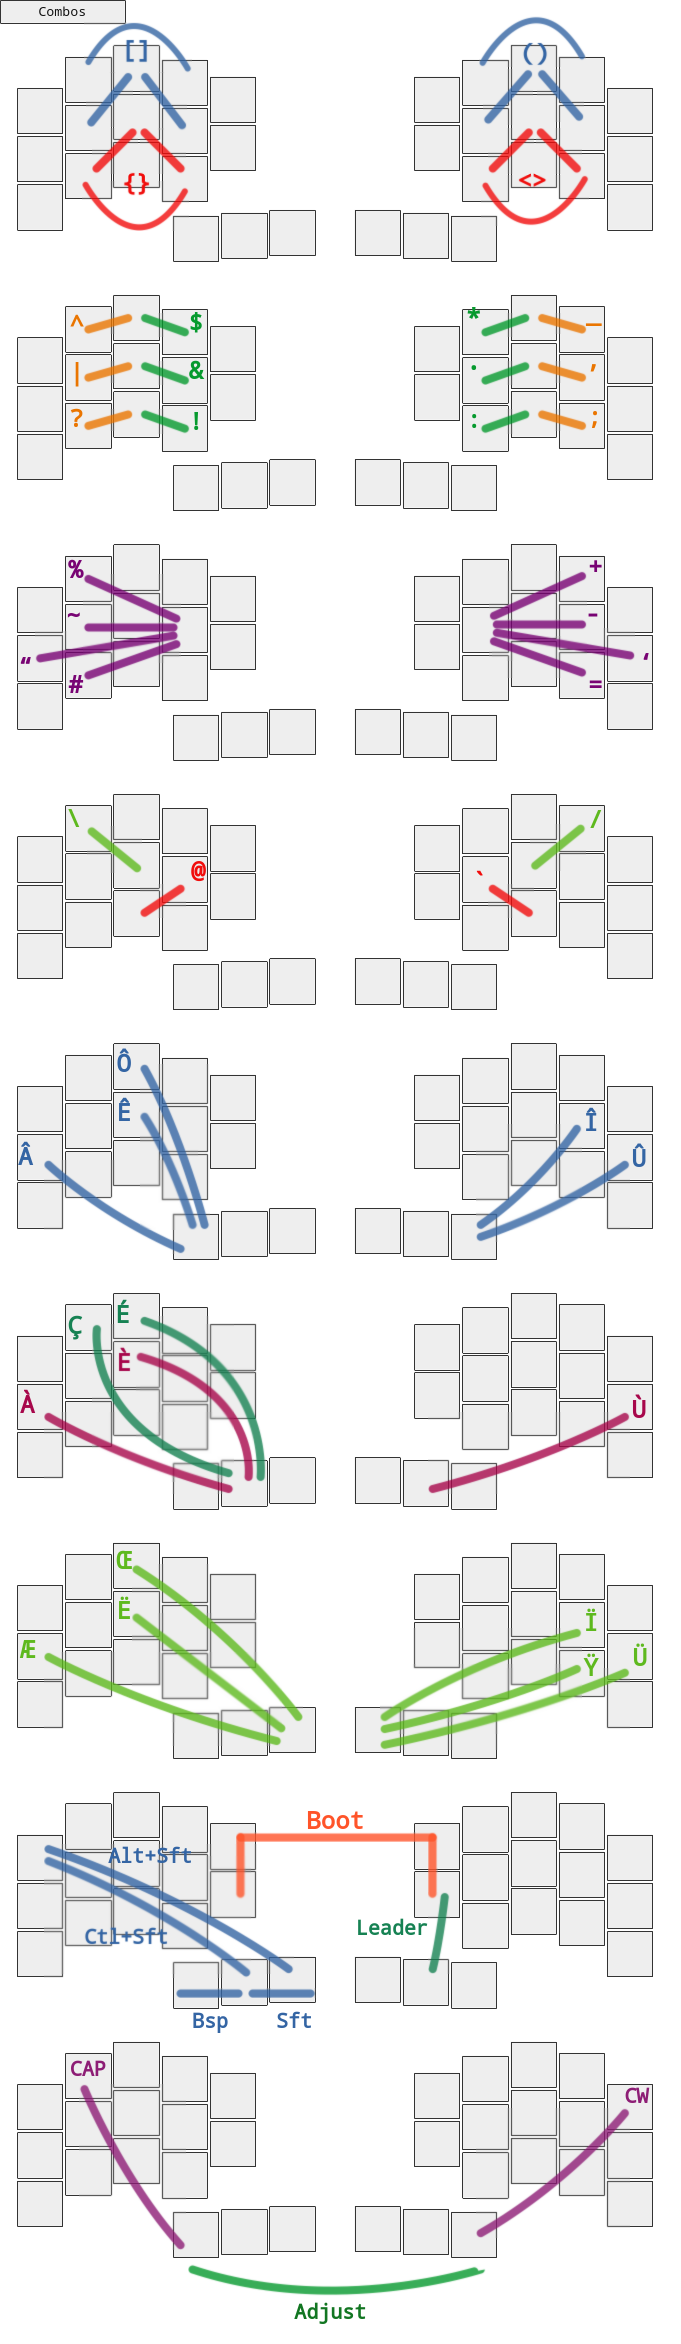
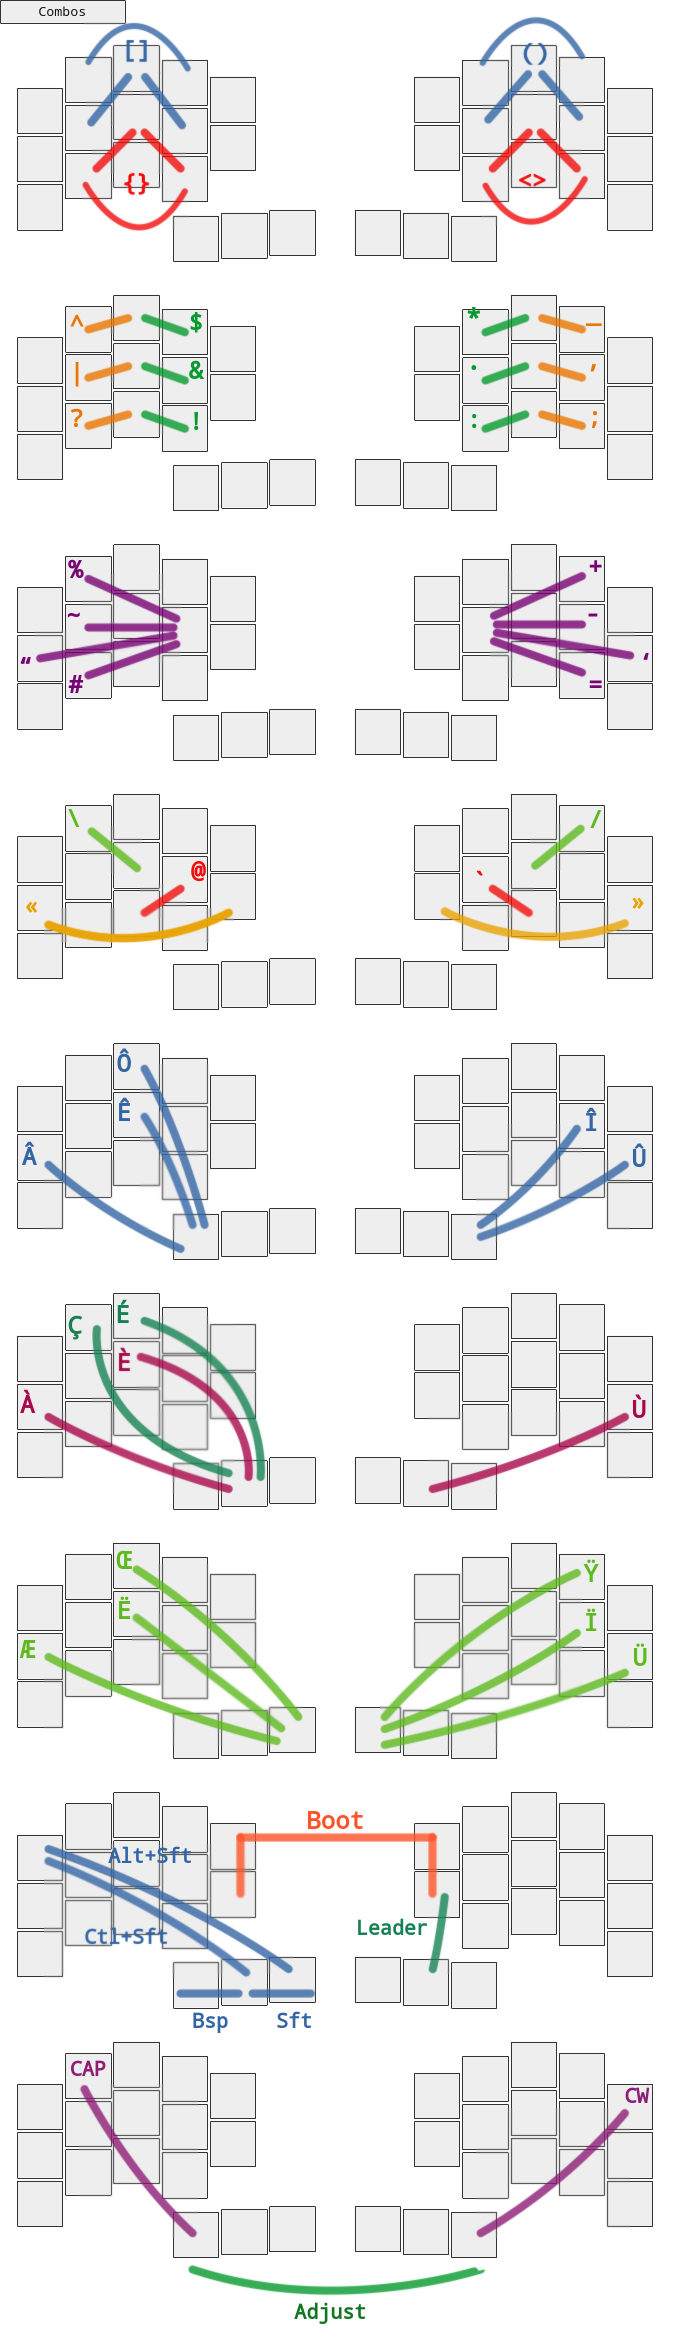
Add VBus

diff --git a/features/leader.c b/features/leader.c
@@ -161,45 +161,45 @@ void leader_end_user(void) {
     send_unicode_string("❕");
 
     /* Subscript / superscript */
-  } else if (leader_sequence_three_keys(KC_U, KC_P, KC_N)) {
+  } else if (leader_sequence_two_keys(KC_U, KC_U)) {
     send_unicode_string("⁰");
-  } else if (leader_sequence_three_keys(KC_D, KC_N, KC_N)) {
+  } else if (leader_sequence_two_keys(KC_D, KC_U)) {
     send_unicode_string("₀");
-  } else if (leader_sequence_three_keys(KC_U, KC_P, KC_C)) {
+  } else if (leader_sequence_two_keys(KC_U, KC_H)) {
     tap_code16(US_SUP1); // ¹
-  } else if (leader_sequence_three_keys(KC_D, KC_N, KC_C)) {
+  } else if (leader_sequence_two_keys(KC_D, KC_H)) {
     send_unicode_string("₁");
-  } else if (leader_sequence_three_keys(KC_U, KC_P, KC_G)) {
+  } else if (leader_sequence_two_keys(KC_U, KC_G)) {
     tap_code16(US_SUP2); // ²
-  } else if (leader_sequence_three_keys(KC_D, KC_N, KC_G)) {
+  } else if (leader_sequence_two_keys(KC_D, KC_G)) {
     send_unicode_string("₂");
-  } else if (leader_sequence_three_keys(KC_U, KC_P, KC_H)) {
+  } else if (leader_sequence_two_keys(KC_U, KC_J)) {
     tap_code16(US_SUP3); // ³
-  } else if (leader_sequence_three_keys(KC_D, KC_N, KC_H)) {
+  } else if (leader_sequence_two_keys(KC_D, KC_J)) {
     send_unicode_string("₃");
-  } else if (leader_sequence_three_keys(KC_U, KC_P, KC_T)) {
+  } else if (leader_sequence_two_keys(KC_U, KC_R)) {
     send_unicode_string("⁴");
-  } else if (leader_sequence_three_keys(KC_D, KC_N, KC_T)) {
+  } else if (leader_sequence_two_keys(KC_D, KC_R)) {
     send_unicode_string("₄");
-  } else if (leader_sequence_three_keys(KC_U, KC_P, KC_S)) {
+  } else if (leader_sequence_two_keys(KC_U, KC_T)) {
     send_unicode_string("⁵");
-  } else if (leader_sequence_three_keys(KC_D, KC_N, KC_S)) {
+  } else if (leader_sequence_two_keys(KC_D, KC_T)) {
     send_unicode_string("₅");
-  } else if (leader_sequence_three_keys(KC_U, KC_P, KC_R)) {
+  } else if (leader_sequence_two_keys(KC_U, KC_I)) {
     send_unicode_string("⁶");
-  } else if (leader_sequence_three_keys(KC_D, KC_N, KC_R)) {
+  } else if (leader_sequence_two_keys(KC_D, KC_I)) {
     send_unicode_string("₆");
-  } else if (leader_sequence_three_keys(KC_U, KC_P, KC_P)) {
+  } else if (leader_sequence_two_keys(KC_U, KC_M)) {
     send_unicode_string("⁷");
-  } else if (leader_sequence_three_keys(KC_D, KC_N, KC_P)) {
+  } else if (leader_sequence_two_keys(KC_D, KC_M)) {
     send_unicode_string("₇");
-  } else if (leader_sequence_three_keys(KC_U, KC_P, KC_D)) {
+  } else if (leader_sequence_two_keys(KC_U, KC_D)) {
     send_unicode_string("⁸");
-  } else if (leader_sequence_three_keys(KC_D, KC_N, KC_D)) {
+  } else if (leader_sequence_two_keys(KC_D, KC_D)) {
     send_unicode_string("₈");
-  } else if (leader_sequence_three_keys(KC_U, KC_P, KC_L)) {
+  } else if (leader_sequence_two_keys(KC_U, KC_Y)) {
     send_unicode_string("⁹");
-  } else if (leader_sequence_three_keys(KC_D, KC_N, KC_L)) {
+  } else if (leader_sequence_two_keys(KC_D, KC_Y)) {
     send_unicode_string("₉");
   };
 }

diff --git a/features/combo.c b/features/combo.c
@@ -51,6 +51,9 @@ enum combos {
 
   EURO,
 
+  FRENCH_QUOTE_LEFT,
+  FRENCH_QUOTE_RIGHT,
+
   /* -- */
   AMPERSAND,
   AT_SIGN,
@@ -145,6 +148,9 @@ const uint16_t PROGMEM combo_ae[] = {ALT_T(QK_REP), KC_A, COMBO_END};
 
 const uint16_t PROGMEM combo_euro[] = {KC_E, KC_P, COMBO_END};
 
+const uint16_t PROGMEM combo_french_quote_left[] = {KC_A, KC_F, COMBO_END};
+const uint16_t PROGMEM combo_french_quote_right[] = {KC_L, KC_U, COMBO_END};
+
 /* -- */
 const uint16_t PROGMEM combo_ampersand[] = {KC_E, KC_N, COMBO_END};
 const uint16_t PROGMEM combo_at_sign[] = {KC_Q, KC_N, COMBO_END};
@@ -234,6 +240,9 @@ combo_t key_combos[] = {
     [AE] = COMBO(combo_ae, US_AE),
 
     [EURO] COMBO(combo_euro, US_EURO),
+
+    [FRENCH_QUOTE_LEFT] COMBO(combo_french_quote_left, US_LDAQ),
+    [FRENCH_QUOTE_RIGHT] COMBO(combo_french_quote_right, US_RDAQ),
 
     /* -- */
     [AMPERSAND] = COMBO(combo_ampersand, KC_AMPERSAND),

diff --git a/config.h b/config.h
@@ -16,9 +16,22 @@
 
 #pragma once
 
+/* VBus */
+#undef EE_HANDS
+#undef SPLIT_USB_DETECT
+// On the left --
+#define USB_VBUS_PIN GP10
+#define SPLIT_HAND_PIN GP10
+// Or on the right --
+// #define USB_VBUS_PIN GP12
+// #define SPLIT_HAND_PIN GP12
+
+// Without VBus, if boot fail on cold start, increase this value (default 2000)
+// #define SPLIT_USB_TIMEOUT 8000
+
 /* Auto shift ♥ */
-#define AUTO_SHIFT_TIMEOUT 115
-#define TAPPING_TERM 145
+#define AUTO_SHIFT_TIMEOUT 105
+#define TAPPING_TERM 105
 
 /* Unicode */
 #define UNICODE_SELECTED_MODES UNICODE_MODE_LINUX
